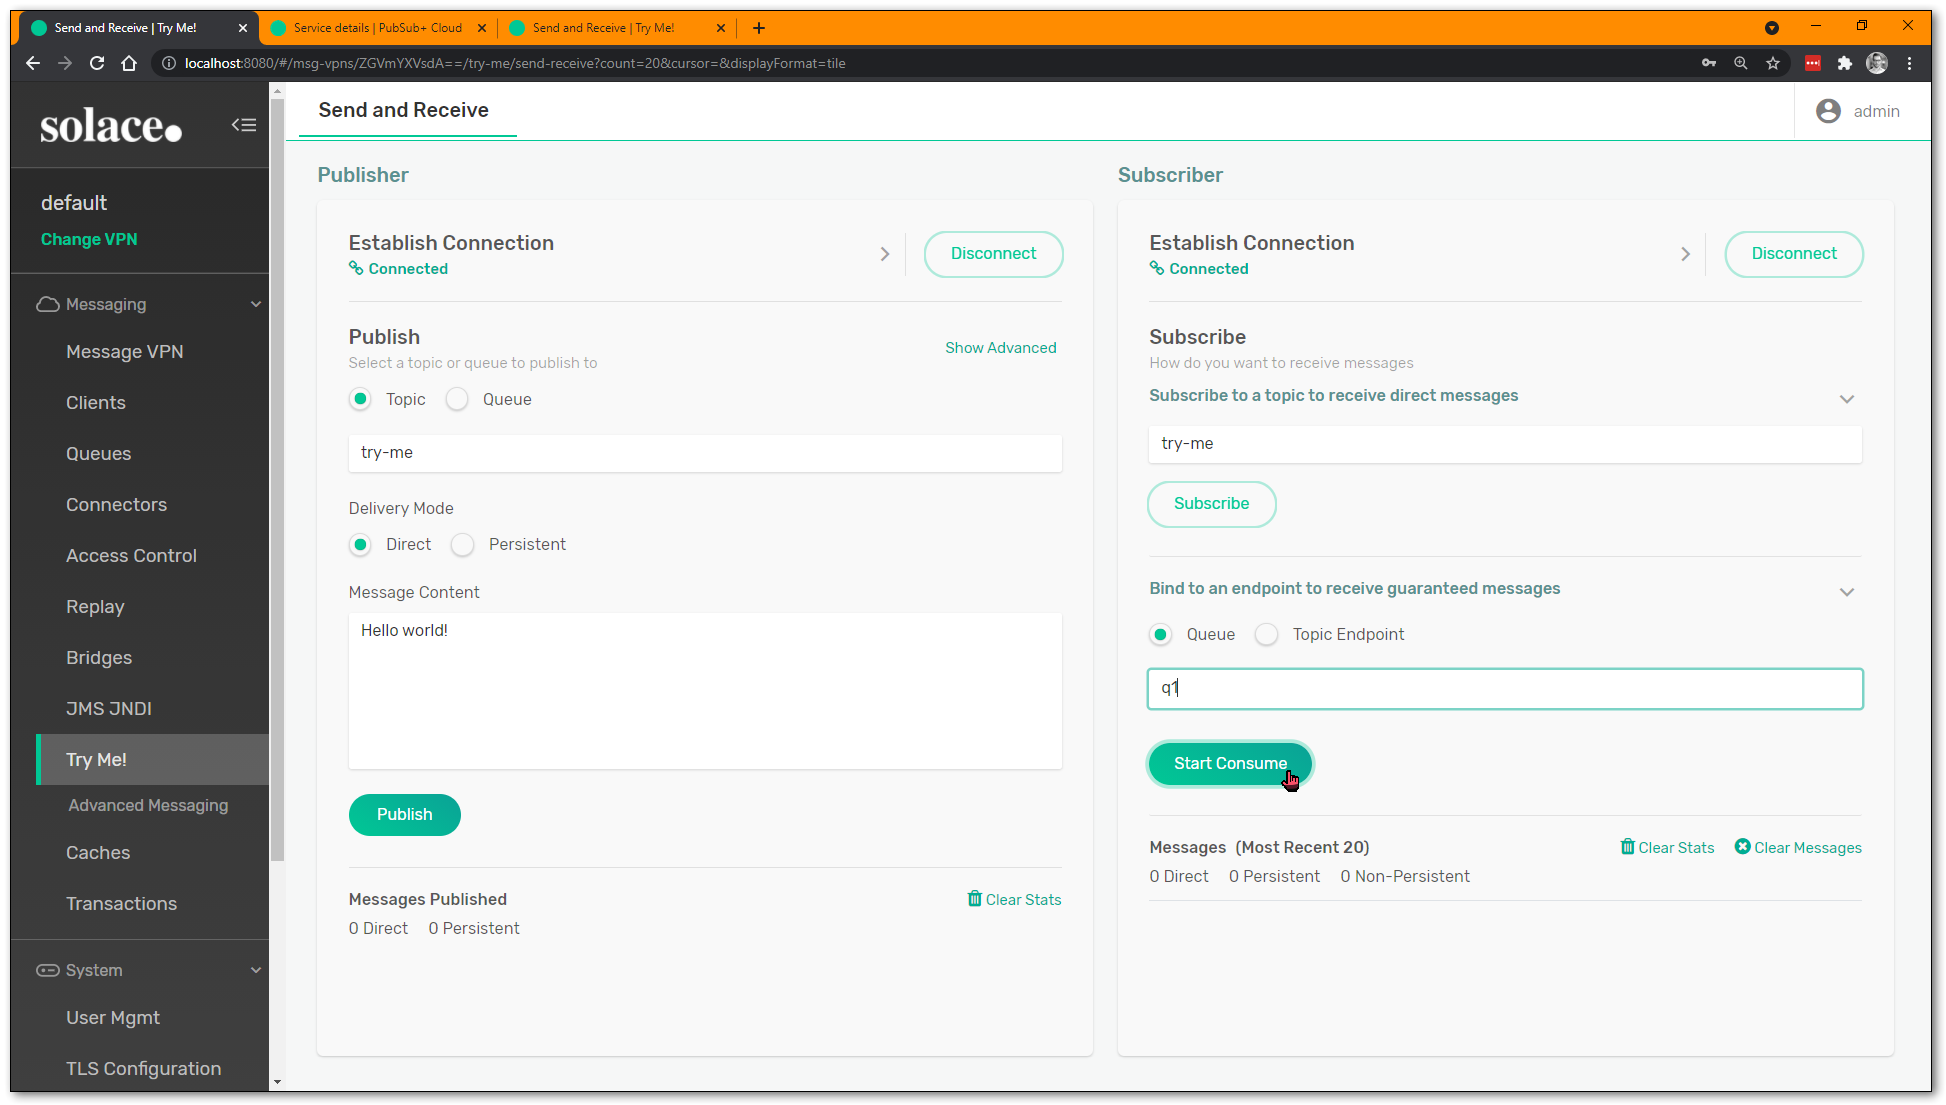
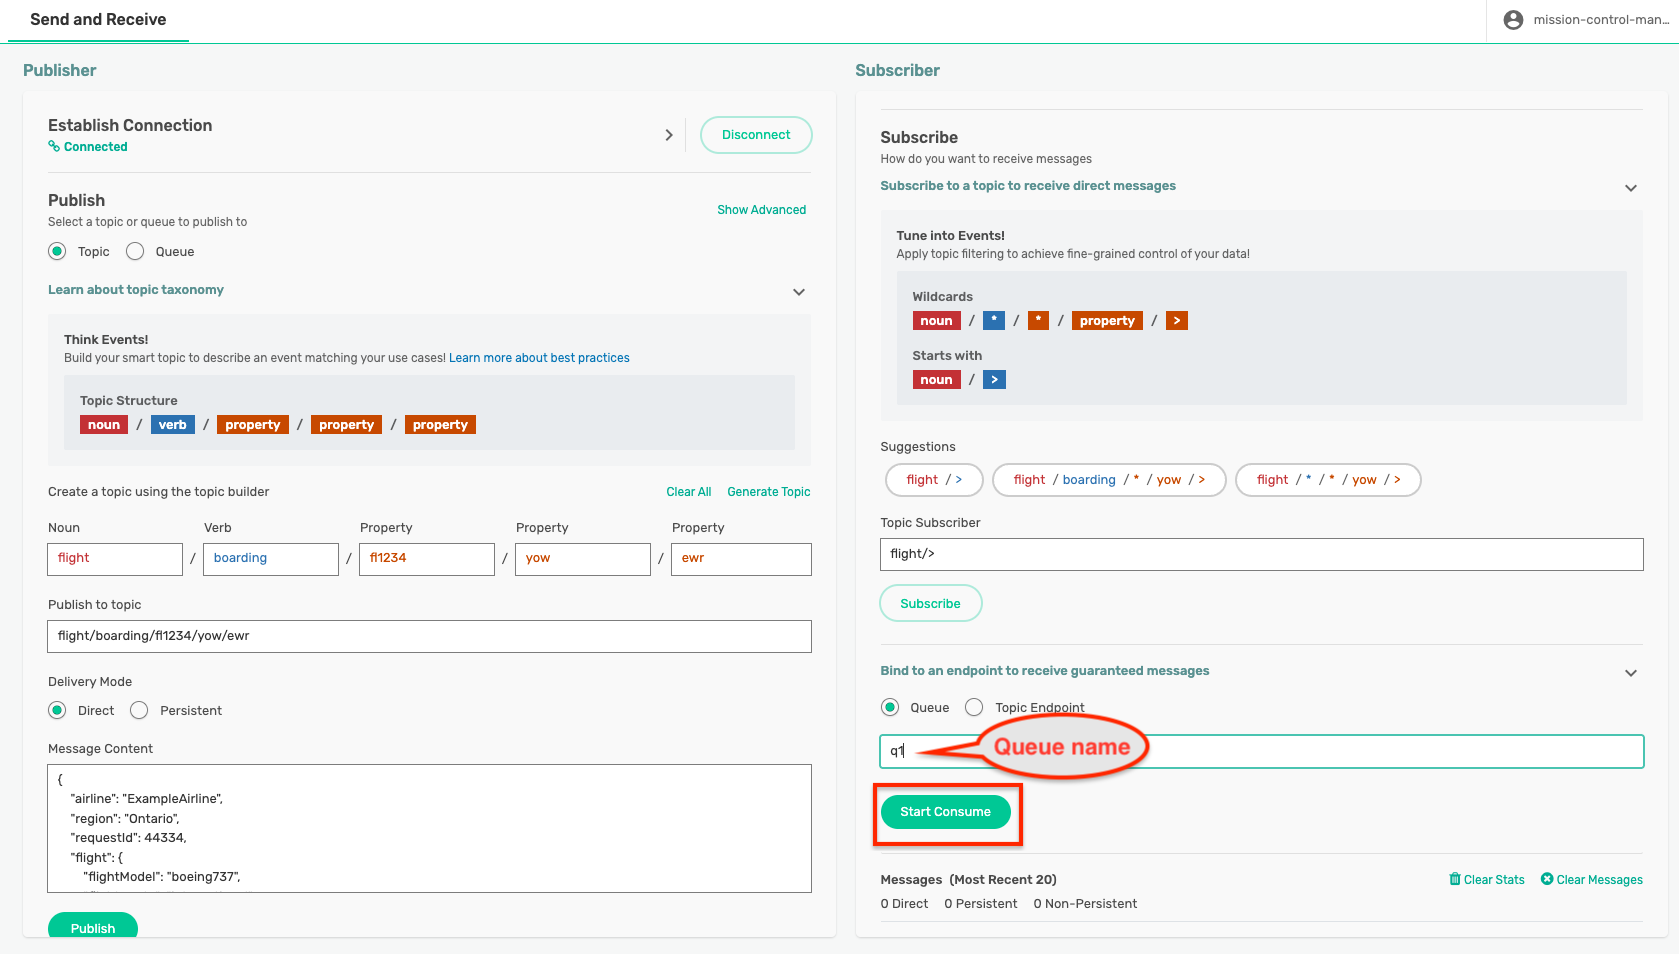
Feature/refresh solace primer codelab (#383)
* Updated Solace primer codelab

* Changes for
- Updating Solace primer with new screenshots
- Updating Solace masterclass for using codespaces

* Changes for
- Updating Solace primer with new screenshots
- Updating Solace masterclass for using codespaces

---------

diff --git a/markdown/get-started-basics/get-started-basics.md b/markdown/get-started-basics/get-started-basics.md
@@ -8,12 +8,7 @@ status: Published
 feedback link: https://solace.community/
 analytics account: UA-3921398-10
 
-# A Solace Primer - Getting Started with Solace PubSub+ Event Broker
-
-
-
-
-
+# A Solace Primer - Getting Started with Solace Event Broker
 
 ## What you'll learn: Overview
 
@@ -21,8 +16,8 @@ Duration: 0:01:00
 
 Hello and welcome!  If you've never interacted with a Solace event broker before, you're in the right place. In this introductory CodeLab, you'll learn how to:
 
-* Setup a **Solace PubSub+ event broker**, and/or start a **PubSub+ Cloud** service
-* Login to the PubSub+ Manager GUI
+* Setup a **Solace Event broker**, and/or start a **PubSub Cloud** service
+* Login to the Broker Manager GUI
 * Utilize test WebSockets applications to send and receive data using **Publish-Subscribe**, the fundamental communication pattern for event-driven applications
 * Improve routing and filtering using **topic hierarchies and wildcards**
 * Create a durable queue for **Guaranteed** Messaging
@@ -35,36 +30,21 @@ Hello and welcome!  If you've never interacted with a Solace event broker before
 > aside positive
 > This CodeLab does not cover the **Event Portal**. That will be addressed in a separate CodeLab.
 
-
-
-
-
-
-
 ## Prerequisites
 
 Duration: 0:01:00
 
-In order to complete this CodeLab, you will need to get access to a Solace PubSub+ event broker.
-
-At minimum, you will need to have internet access and a browser to use Solace PubSub+ Cloud.
-
+In order to complete this CodeLab, you will need to get access to a Solace Event Broker.
+At minimum, you will need to have internet access and a browser to use Solace PubSub Cloud.
 To run the software broker, you'll need to have Docker, VirtualBox, VMWare Player, or another similar technology available to you.  More details in the next step.
 
-
-
-
-
-
-
-## Starting a Solace PubSub+ Event Broker
+## Starting a Solace PubSub Event Broker
 
 Duration: 0:10:00
 
-Let's get access to a Solace PubSub+ event broker!
+Let's get access to a Solace Event Broker!
 
-
-### PubSub+ Cloud
+### Solace Cloud
 
 Super easy, with no setup or hardware or anything required.  _Solace as a Service_!  Point your browser to [console.solace.cloud](https://console.solace.cloud/login/new-account) to sign up for a free account.
 
@@ -74,29 +54,37 @@ Super easy, with no setup or hardware or anything required.  _Solace as a Servic
 Enter your specifics, and get signed up for an account.
 
 Once you are logged in, you should see something like this:
+![cloud-console.png](img/cloud-console.png)
 
-![picture](img/mission-control.png)
+In the Solace Cloud Console, click **Cluster Manager** in the left navigation
+   ![broker-setup-1.png](img/broker-provisioning/broker-setup-1.png)
 
+Click **Create Service** (or the **+** button if you have existing services)
+   ![broker-setup-2.png](img/broker-provisioning/broker-setup-2.png)
 
-Click on "Cluster Manager" to go into where you create and manage your broker services.  Then click the big "+" Plus button to create a new Service.  Ensure you have selected Developer Service, choose a cloud provider you'd like to host the broker, and then click the map to find a region close to you:
+Fill in the service configuration details:
+  - Name : Choose a concise name (e.g., `ep-codelab`)
+  - Environment : Leave as **Default**
+  - Cloud : Choose your preferred cloud provider (AWS, Azure, or GCP)
+  - Region : Select a region closest to your location
+  - Broker Release : Leave as default (latest stable)
+  - Service Type : Select **Developer** (free tier)
+    ![broker-setup-3.png](img/broker-provisioning/broker-setup-3.png)
 
-![picture](img/start-service.png) 
+Click **Create Service**
 
-
-Give your Solace PubSub+ Cloud service instance a name, and then tell it to start!  Under the covers, a Solace event broker will be deployed and configured in the cloud you indicated, ports configured, load-balancer setup, monitoring enabled, etc.  It takes about 5 minutes, and then you'll be ready!
+The service will take 3-5 minutes to provision
+Status will show as **Creating...**
+   ![broker-setup-4.png](img/broker-provisioning/broker-setup-4.png)
+Once complete, the broker details page will load
+   ![broker-setup-5.png](img/broker-provisioning/broker-setup-5.png)
 
 > aside positive
 > It is safe to navigate away from the "Solace is starting" page while the broker is being deployed in the cloud.  Feel free to explore the rest of Solace Mission Control, including the Event Portal!
 
-
-
-
-
-
-
 ### Software Broker
 
-There are multiple options on how to install/download/configure/run the PubSub+ broker:
+There are multiple options on how to install/download/configure/run the Solace event broker:
 
 * If you have Docker installed, this is [probably the easist way](https://solace.com/products/event-broker/software/getting-started/). Simply copy this line into a terminal to pull the latest image from Docker Hub, and boot it:
 
@@ -115,28 +103,21 @@ docker run -d -p 8080:8080 -p 55555:55555 -p:8008:8008 -p:1883:1883 -p:8000:8000
    * [https://docs.solace.com/Solace-SW-Broker-Set-Up/Machine-Image-Set-Up.htm](https://docs.solace.com/Solace-SW-Broker-Set-Up/Machine-Image-Set-Up.htm)
 
 
-
-
-
-
-
-
 ## Log in to the Management GUI
 
 Duration: 0:02:00
 
 Ok, now that we (are pretty sure we) have a Solace broker up and running, let's log in to it!
 
-### Solace PubSub+ Cloud
+### Solace Cloud Broker
 
 Once your service is deployed and ready, simply click on it to go into it and look at some basic configuration information:
-
 
 ![picture](img/console.png)
 
 Notice some of the buttons across the top:
 * The "Connect" tab shows you all the required connection information for your messaging pub/sub applications (e.g. host, username, password, etc.), which we'll need in later steps. The info can be grouped either by protocol or by programming language.
-* At the top-right, there should be a button saying "Open PubSub+ Broker Manager".  Click on that to go into the Manager GUI.
+* At the top-right, there should be a button saying "Open Broker Manager".  Click on that to go into the Manager GUI.
 
 
 ### Installed Software Broker
@@ -162,7 +143,7 @@ Click on that box!
 
 
 
-## Looking around the PubSub+ Manager
+## Looking around the Broker Manager
 
 Duration: 0:05:00
 
@@ -205,12 +186,12 @@ Click on the "Connect" button of both the Publisher and the Subscriber.  The gre
 ### Solace Cloud
 
 > aside negative
-> **NOTE:** if using **Solace Cloud**, you will need to enter your client application credentials here, rather than using the `default` values.  These can be found on the "Connect" tab of the Cloud console, probably located on the tab left of the PubSub+ Manager.
+> **NOTE:** if using **Solace Cloud**, you will need to enter your client application credentials here, rather than using the `default` values.  These can be found on the "Connect" tab of the Cloud console
 
 ![picture](img/connect.png)
 
 
-Choose, "Solace Web Messaging" and copy the username, password, and port for Secure `wss`. Back on the Try Me! tab, click the little right-arrow `>` next to the "Connect" button to open the dropdown list, and enter your connection information (make sure you use the correct port number).
+Choose, "Solace Web Messaging" and copy the password. Back on the Try Me! tab, click the little right-arrow `>` next to the "Connect" button to open the dropdown list, and enter your password information, rest all should be correct by default. Then hit "Connect" and ensure you are connected.
 
 ![picture](img/try-me-cloud.png)
 
@@ -221,16 +202,6 @@ Choose, "Solace Web Messaging" and copy the username, password, and port for Sec
 Once you are connected, hit the "Subscribe" button on the right to add a single topic subscription to the Subscriber application (currently `try-me` topic). On the left side, try Publishing some messages and ensure they go through.
 
 Try changing the topic and see what happens. Try unsubscribing and see what happens. When using **Direct** messaging, subscribing clients must be online (and subscribed) in order to receive published messages.
-
-
-
-
-
-
-
-
-
-
 
 
 
@@ -284,15 +255,6 @@ You can read more about [topic wildcard subscriptions](https://docs.solace.com/P
 > Try modifying your subscription on the Try Me! apps to use wildcards, and publish matching topics with the publisher.
 
 
-
-
-
-
-
-
-
-
-
 ## Creating a Queue for Guaranteed Delivery
 
 Duration: 0:03:00
@@ -340,13 +302,6 @@ Click "Create" and that's it... your queue now has topic subscriptions to attrac
 
 > aside positive
 > Some brokers call this "topic-to-queue chaining" or "topic-to-queue mapping", but in Solace this is just how to do pub/sub with persistence: it gives the one-to-many option of delivery, but all the benefits of queued delivery (persistence, exclusive or round-robin delivery, redeliveries, TTL, DMQ, etc.).
-
-
-
-
-
-
-
 
 
 ## Persistent Pub/Sub Try Me!
@@ -406,12 +361,6 @@ For more information about Replay and/or acknowledging messages, check the follo
 * [https://docs.solace.com/Solace-PubSub-Messaging-APIs/API-Developer-Guide/Acknowledging-Messages.htm](https://docs.solace.com/Solace-PubSub-Messaging-APIs/API-Developer-Guide/Acknowledging-Messages.htm)
 
 
-
-
-
-
-
-
 ## Next Steps
 
 Duration: 0:01:00
@@ -419,7 +368,7 @@ Duration: 0:01:00
 This CodeLab has shown the very basics of application messaging using publish-subscribe and the Solace event broker.  For next steps, please consider one of these other CodeLab tutorials:
 
 * [Exploring Solace Native APIs - The Basics](https://codelabs.solace.dev/codelabs/exploring-solace-native-apis/index.html)
-* [How to Event-Enable your REST Architecture with Solace PubSub+](https://codelabs.solace.dev/codelabs/solace-event-enable-rest/index.html)
+* [How to Event-Enable your REST Architecture with Solace Event Broker](https://codelabs.solace.dev/codelabs/solace-event-enable-rest/index.html)
 
 Thank you for your time.  Please come find us on [Solace Community](https://solace.community/) to ask any questions!
 

diff --git a/markdown/solace-masterclass/solace-masterclass.md b/markdown/solace-masterclass/solace-masterclass.md
@@ -203,7 +203,33 @@ In summary, the Event Portal streamlines event management, making it an essentia
 
 ## Use case implementation
 
-Duration: 0:01:00
+Duration: 0:10:00
+
+For the hands-on excercise, we will be using GitHub Codespaces which provides a cloud-based development environment with all the necessary tools and software pre-installed. 
+
+### Setup GitHub Codespace
+
+> aside negative Please note that using GitHub Codespace requires a GitHub account. \
+> If you do not have a GitHub account, you can create one for free by visiting [GitHub Sign Up](https://github.com/signup) \
+> If your enterprise GitHub account does not have access to GitHub Codespaces, you can use a personal GitHub account to access the Codespaces environment for this workshop.
+
+#### Step 1: **Open the Workshop Repository**
+
+Visit [Solace Developer Workshops](https://github.com/SolaceDev/solace-developer-workshops/)
+![020-github-workshop-repo.png](img/codespace-setup/020-github-workshop-repo.png)
+
+#### Step 2: Click **Open in GitHub Codespaces**
+![020-open-github-codespaces.png](img/codespace-setup/020-open-github-codespaces.png)
+
+#### Step 3: Choose **Change Options** → set machine type to **4-core**
+![020-codepsaces-change-options.png](img/codespace-setup/020-codepsaces-change-options.png)
+
+#### Step 4: Click **Create Codespace**
+![020-codespace-ready.png](img/codespace-setup/020-codespace-ready.png)
+
+> aside negative Please note that the codespace may take a few minutes to initialise. You will see some logs in the terminal during the initialization process. Once the setup is complete, you will have a ready-to-use development environment in the cloud.
+
+### Use case selection
 
 Based on use case of your choice, please follow the appropriate chapter below :
 
@@ -306,10 +332,11 @@ relevant events which it uses for showing realtime status updates on the order l
   ![order-service-creds-deployed.png](img/retail-domain-usecase/order-service-creds-deployed.png)
 
 ##### **Part 2 : Application build and deployment**
+- In the codespace terminal, create a new terminal window by clicking on the **+** icon on the terminal pane 
 - Navigate to the directory: **solace-masterclass/retail-domain/order-service**
-- Open a terminal in this folder and run the command : `mvn clean spring-boot:run`
+- Run the command : `mvn clean spring-boot:run`
 - Once the application is up and running, open the application using the
-  url: [http://localhost:9002/](http://localhost:9002/) in the Chrome browser (or any one available in the VM)
+  url that is shown in the popup within the codespace.
 - You should see a page which looks like this :
   ![Order-Service-Application.png](img/retail-domain-usecase/Order-Service-Application.png)
 - Here you can connect to your Solace cloud broker instance to publish and subscribe events.
@@ -673,11 +700,10 @@ Confirmed_ and corresponding _Account Suspended_ events.
   ![acc-mgt-deployed.png](img/banking-domain-usecase/acc-mgt-deployed.png)
 
 ##### **Part 2 : Application build and deployment**
-
-- Navigate to the directory: **solace-masterclass/banking-domain/account-management**
-- Open a terminal in this folder and run the command : `mvn clean spring-boot:run`
-- Once the application is up and running, open the application using the
-  url: [http://localhost:9092/](http://localhost:9092/)
+- In the codespace terminal, create a new terminal window by clicking on the **+** icon on the terminal pane
+- Navigate to the directory: **solace-masterclass/retail-domain/order-service**
+- Run the command : `mvn clean spring-boot:run`
+- Once the application is up and running, open the application using the url that is shown in the popup within the codespace.
 - You should see a page which looks like this :
   ![Account-management-application.png](img/banking-domain-usecase/Account-management-application.png)
 - Here you can connect to your Solace cloud broker instance to publish and subscribe events.
